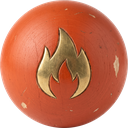
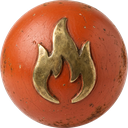
Rename to Behind the Curtain, enemies drop on ropes, relief Essence orbs
- Game renamed "Behind the Curtain" (project name, menu/pause/wiki texts).
- Map warm-up during the drapes and Audio.warm: no hitch when the map drops.
- Enemies are let down on their ropes (free fall + bob); props still walk in.
- Fire/Water/Wind Essence orbs redone with raised brass relief (tools/make_essence_orbs.py).
- Act 1 stage perspective points set with F4 are now the defaults (perspective_defaults.json).
- stage_encounter_test waits for the drapes.

diff --git a/tools/make_essence_orbs.py b/tools/make_essence_orbs.py
@@ -1,0 +1,84 @@
+"""Puppet Stage, the three Essence orbs (fire / water / wind) redone with the symbols standing up in raised brass relief on the ball, like the Air Emblem
+artifact. From assets/Puppet/UI/Essence/essence_relief_prompts.txt + essence_relief_style.txt:
+  1. ImageSet makes one picture per line in the set "Puppet Essence Relief" (the Air Emblem picture is the style reference); it uses the user's Gemini
+     quota on the spare accounts (a2..a5) and stops (nothing touched) when it cannot finish.
+  2. each picture is cut out (Tachnen's BiRefNet), trimmed and scaled to 128 px -> UI/Essence/essence_fire / essence_water / essence_wind.png
+     (the old ones are kept as <name>_old.png in assets/Puppet/UI/_Source/Essence/).
+Run with Tachnen's python:  "D:/GitHub Projects/Tachnen/.venv/Scripts/python.exe" tools/make_essence_orbs.py [--no-generate] [Fire Water Wind]
+Then Godot --headless --editor --quit once."""
+import glob
+import json
+import os
+import shutil
+import subprocess
+import sys
+import tempfile
+
+HERE = os.path.dirname(os.path.abspath(__file__))
+sys.path.insert(0, HERE)
+import asset_paths as AP
+
+IMAGESET = r"D:\GitHub Projects\ImageSet"
+SET_NAME = "Puppet Essence Relief"
+ESS = os.path.join(AP.PUPPET, "UI", "Essence")
+STYLE = os.path.join(ESS, "essence_relief_style.txt")
+PROMPTS = os.path.join(ESS, "essence_relief_prompts.txt")
+REF = os.path.join(AP.PUPPET, "Icon", "Artifact", "Artifact Air Emblem_20261013_145716.png")
+TARGET = {"Essence Fire": "essence_fire", "Essence Water": "essence_water", "Essence Wind": "essence_wind"}
+
+
+def objects():
+    out = []
+    for line in open(PROMPTS, encoding="utf-8").read().splitlines():
+        if ":" in line.strip():
+            name, prompt = line.split(":", 1)
+            out.append({"name": name.strip(), "prompt": prompt.strip()})
+    return out
+
+
+def generate(objs, redo=False):
+    status = os.path.join(tempfile.gettempdir(), "essence_relief_status.json")
+    spec = {"set_name": SET_NAME, "style": open(STYLE, encoding="utf-8").read().strip(), "style_ref": REF, "ratio": "1:1", "objects": objs,
+            "status_path": status, "retries": 1, "redo": [o["name"] for o in objs] if redo else [], "accounts": ["a2", "a3", "a4", "a5"]}
+    spec_path = os.path.join(tempfile.gettempdir(), "essence_relief_spec.json")
+    json.dump(spec, open(spec_path, "w", encoding="utf-8"), ensure_ascii=False, indent=1)
+    code = subprocess.call([os.path.join(IMAGESET, ".venv", "Scripts", "python.exe"), "main.py", "--batch", spec_path, "--background"], cwd=IMAGESET)
+    st = json.load(open(status, encoding="utf-8"))
+    print("ImageSet:", st.get("state"), st.get("done"), "/", st.get("total"), st.get("errors"))
+    if code != 0 and st.get("state") != "done":
+        sys.exit("ImageSet did not finish (exit %s, %s): nothing was changed." % (code, st.get("state")))
+
+
+def newest(name):
+    found = sorted(glob.glob(os.path.join(glob.escape(os.path.join(IMAGESET, "output", SET_NAME)), glob.escape(name) + "_*.png")), key=os.path.getmtime)
+    return found[-1] if found else None
+
+
+def main():
+    objs = objects()
+    only = [a for a in sys.argv[1:] if not a.startswith("--")]  # (names like "Wind" "Water": only those are made again)
+    if only:
+        objs = [o for o in objs if any(w.lower() in o["name"].lower() for w in only)]
+    if "--no-generate" not in sys.argv:
+        generate(objs, redo=bool(only))  # (named ones are made again even when a picture exists: the prompt changed)
+    files = {o["name"]: newest(o["name"]) for o in objs}
+    missing = [n for n, f in files.items() if f is None]
+    if missing:
+        sys.exit("No picture yet for: %s. Nothing was changed." % ", ".join(missing))
+    import import_puppet_ui as ui  # (needs Tachnen's python)
+    from PIL import Image
+    old = os.path.join(AP.PUPPET, "UI", "_Source", "Essence")
+    os.makedirs(old, exist_ok=True)
+    for name, src in files.items():
+        im = ui.cut(src)
+        k = 128 / max(im.size)
+        im = im.resize((max(1, round(im.width * k)), max(1, round(im.height * k))), Image.LANCZOS)
+        dst = os.path.join(ESS, TARGET[name] + ".png")
+        if os.path.exists(dst) and not os.path.exists(os.path.join(old, TARGET[name] + "_old.png")):
+            shutil.copy(dst, os.path.join(old, TARGET[name] + "_old.png"))
+        im.save(dst)
+        print("  %-14s -> %s %s" % (name, os.path.basename(dst), im.size))
+
+
+if __name__ == "__main__":
+    main()

diff --git a/docs/art_progress.md b/docs/art_progress.md
@@ -138,3 +138,4 @@ Source of truth for art: `assets/ui/Fight UI.pdf`, cut into `assets/ui/new/<fold
 **2026-10-17 (session):** see docs/session_2026_10_17.md (Act 1 enemy redo, rope mode F5 + ropes in fights, Handyman PDF swap + tweezer poke, slot machine from Slot_machine.pdf, merge of origin/main). To do: gắn dây cho mọi kẻ địch còn lại; test_new_commons trượt (dấu chấm trong text spell).
 
 **2026-10-18:** top HUD / debuff board / hover board / encounter screen restyle / fuse wax click, see docs/session_2026_10_17.md (Bổ sung 18/10). Exporter: tools/export_top_hud.py (indexes are per PDF version). Obsolete: tools/export_puppet_hud.py. To do: gắn dây cho các enemy còn lại; test_new_commons.
+- 2026-10-18: game renamed "Behind the Curtain" (project name, menu/pause/wiki text; the title board art is the user's to redo). Enemies are let down on their ropes (`FightScreen._let_enemies_down`, free fall + bob) instead of walking in; props still walk in. Map warm-up before the drop (no hitch). The 3 Essence orbs (fire/water/wind) redone with raised brass relief like the Air Emblem: `tools/make_essence_orbs.py [Fire|Water|Wind]` (ImageSet set "Puppet Essence Relief", prompts `UI/Essence/essence_relief_*.txt`, old ones in `UI/_Source/Essence/*_old.png`). `essence_any` (white star ball) is still the old inlaid style.

diff --git a/CLAUDE.md b/CLAUDE.md
@@ -1,4 +1,4 @@
-# The Last Tree: rules for Claude
+# Behind the Curtain: rules for Claude
 
 - Reply in Vietnamese (also set globally).
 - Art pipeline: `assets/New/_Source/Fight UI.pdf` -> `python tools/export_fight_ui.py` -> `assets/New/...` (layout of `assets/`: see `assets/README.md`; exporters write through `tools/asset_paths.py`) (see `docs/art_progress.md`). Godot: `C:\Program Files\Godot\Godot.exe`; new `class_name` files need `--headless --editor --quit` once; warnings are errors; tests: `--headless --script res://tests/run_tests.gd`.

diff --git a/README.md b/README.md
@@ -1,4 +1,4 @@
-# The Last Tree
+# Behind the Curtain
 
 A Godot 4.6 chanting roguelite. You travel through three acts on a branching map and fight one encounter at a time, first person, with the enemies in front of you. Enemies' HP is a row of Fire, Water and Wind. You chant elements to break those rows and trigger your spells.
 
